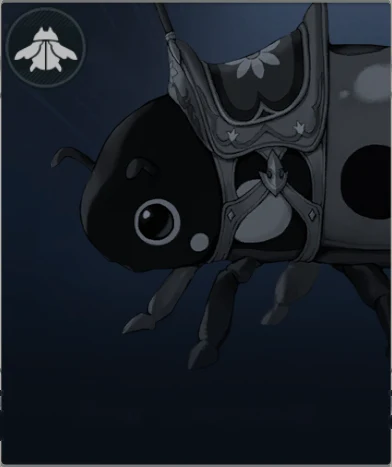
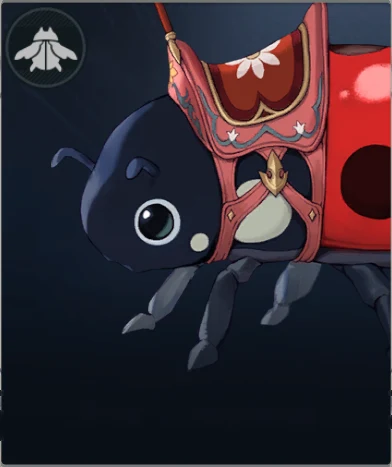
Chest Addict obtained; Red Ladybug colour card
Claude-Session: https://claude.ai/code/session_01EEUGExqbBzgjTmbkebbm3N

diff --git a/docs/library/DONE.md b/docs/library/DONE.md
@@ -5,6 +5,7 @@ Back to the library: [docs/README.md](../README.md). Open work: [STATUS.md](STAT
 Nothing on this page needs doing again. It exists so finished work is never mistaken for an open task. Newest first within each section. When a task in STATUS, SITE or the to-do page finishes, move it here with the date.
 
 ## Game tasks and tests (David)
+- **10 Nov:** title Chest Addict obtained; last insect familiar, Red Ladybug, owned (colour card cut from David's screenshot); materials for all 16 masteries farmed.
 - **9 Nov evening:** all 20 heroes Lv.70; Test 08 base stats for all 20 (the 11 known ones re-measured and matching); 3 skill buffs (Tarte Cure, Alex Guard Counter, Astria Reload); 19 gear rows, mostly Blue and Purple (all match the tables, and they confirm Legs Attack Power Up, Legs Max HP Up, Helmet and Boots Defense Up and Boots Crit).
 - **9 Nov:** gearless team redo: all three heroes in each tested team at Lv.70, no gear, no Karma, 1 min on the Training Ogre, plus signature runs ([TEAM_TESTS.md](TEAM_TESTS.md)).
 - **9 Nov:** levelled to 70: Ryza, Theresia, Roxy, Castella, Tarte, Sion, Charlotte (with Johnny, Reina, Kalsion and Kalien, 11 heroes are at 70).

diff --git a/CHANGELOG.md b/CHANGELOG.md
@@ -1,3 +1,7 @@
+## 10 Nov 2026 — Chest Addict, Red Ladybug (Claude)
+- `TITLES`: Chest Addict obtained (Defense +15; owned titles now Defense +45 flat, GAME_MATH 2.2). `FAMILIARS`: Red Ladybug owned; `assets/familiars/red-ladybug.webp` replaced with the colour card cut from David's `insect.png` by `tools/image/codex_recolor.py` (same 392×467 size and style, checked by eye next to the other beetles), then the PNG was deleted.
+- STATUS: David has materials for all 16 masteries; solo retests with no gear and no Karma.
+- Validator OK. Titles and Familiars are preview-only pages.
 ## 10 Nov 2026 — Kalsion split into two groups; equal card widths (Claude)
 - David's answers: Kalsion only bursts and swaps in Airborne burst, Burn chain and Fire and venom (new group `kalsion-burst`, main Airborne burst); he gets field time in Fox and wind (main), Break and burn and Fox and crossbow.
 - Thunder pair note (David): Ornette beats Tarte because Knockdown matters more than extra Shock.

diff --git a/docs/library/STATUS.md b/docs/library/STATUS.md
@@ -7,7 +7,7 @@ Back to the library: [docs/README.md](../README.md). Update this file during and
 - No awakenings and no masteries taken on any hero yet. They **can't be undone**.
 
 ## Current task (10 Nov, 04:15)
-- **David is collecting treasure maps for mastery materials; he'll come back with enough for all 16 masteries.** Then: per hero mastery → retest → awakenings (plan below).
+- **David has materials for all 16 masteries (10 Nov, 210/200).** He's unlocking them all and running the solo retests: no gear, no Karma (same as Test 01). Then awakenings, one at a time, testing only those on the list below.
 
 ## Earlier this session (Claude, 9 Nov evening)
 - Done: breakthrough profiles explained (GAME_MATH 2.1: one axis, B melee, C ranged, A halfway, D Alex); skill buffs checked; 19 new gear rows checked (all match); endgame gear and set analysis (GAME_MATH 4.1).

diff --git a/docs/library/GAME_MATH.md b/docs/library/GAME_MATH.md
@@ -48,7 +48,7 @@ Back to the library: [docs/README.md](../README.md). Evidence for each rule: `DA
 - Base Crit Rate 5%, Crit Damage 50%. Every status resistance is 50 with no gear.
 
 ### 2.2 Titles (`TITLES`)
-- Titles give passives to every hero, slotted or not. David's current set: Attack +145, Max HP +1,575 flat; Defense +30 flat then Defense Up +5.3%.
+- Titles give passives to every hero, slotted or not. David's set: Attack +145, Max HP +1,575 flat; Defense +30 flat then Defense Up +5.3% (all Lv.70 base stats were measured with this). **From 10 Nov (Chest Addict obtained): Defense +45 flat.** Subtract +45 from new panel readings.
 - The levelling screen and `HERO_BASE_STATS` exclude titles. The in-fight panel includes them.
 
 ### 2.3 Karma stats (`KARMA_DATA`, `KARMA_LEVELLING`, `KARMA_ASCENSION`)
